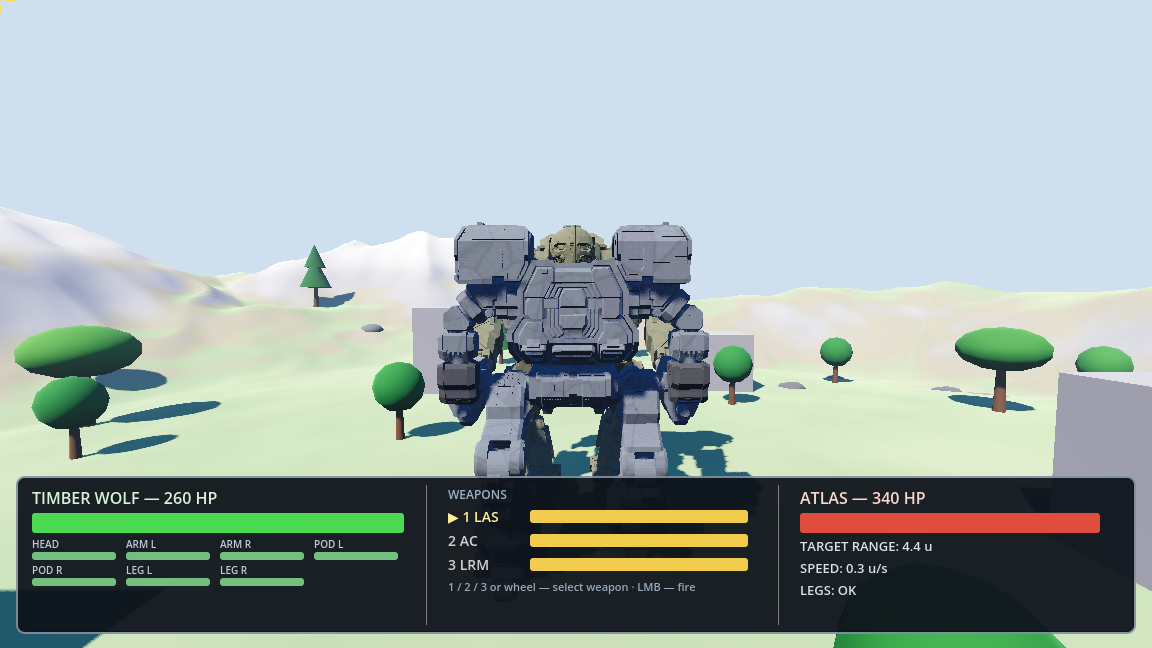
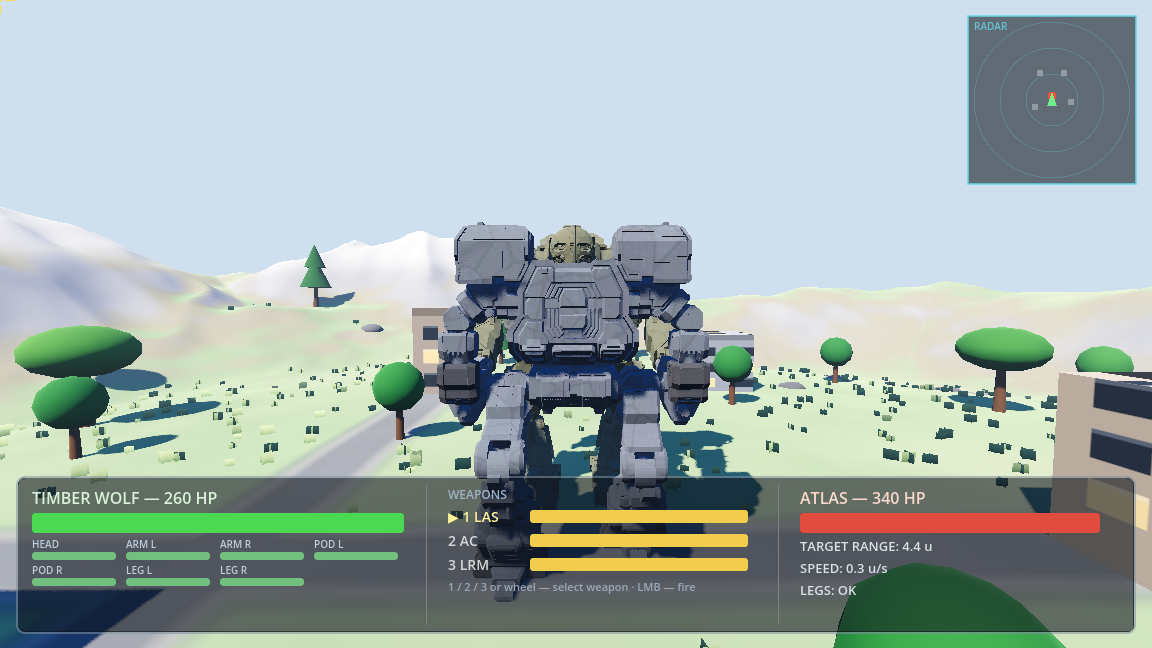
fix: radar was never instantiated — create it in BuildHud
The radar commit wired the field, the HUD refresh and the lab visibility toggles, but the creation block's anchor text did not match (layer.AddChild vs AddChild) and the edit silently no-opped — the scope never existed, which the duel_chase frame exposed. Creation now sits directly after the panel is added to the HUD layer, verified by a draw-call probe (size 168x168 at top-right, since removed) and by the refreshed chase frame: rings, building blocks, player triangle and the Atlas contact at center at stall range.

diff --git a/godot/MechDuel.cs b/godot/MechDuel.cs
@@ -1446,6 +1446,22 @@ public partial class MechDuel : Node3D
         _panel.AddThemeStyleboxOverride("panel", pbg);
         layer.AddChild(_panel);
 
+        // Radar scope, top-right (owner): player-centered, north-up.
+        _radar = new RadarView
+        {
+            Player = _player,
+            Enemy = _enemy,
+            CustomMinimumSize = new Vector2(168f, 168f)
+        };
+        _radar.Buildings.AddRange(_buildingPts);
+        _radar.SetAnchorsPreset(Control.LayoutPreset.TopRight);
+        _radar.OffsetLeft = -184f;
+        _radar.OffsetTop = 16f;
+        _radar.OffsetRight = -16f;
+        _radar.OffsetBottom = 184f;
+        _radar.MouseFilter = Control.MouseFilterEnum.Ignore;
+        layer.AddChild(_radar);
+
         var hbox = new HBoxContainer();
         hbox.AddThemeConstantOverride("separation", 20);
         _panel.AddChild(hbox);
